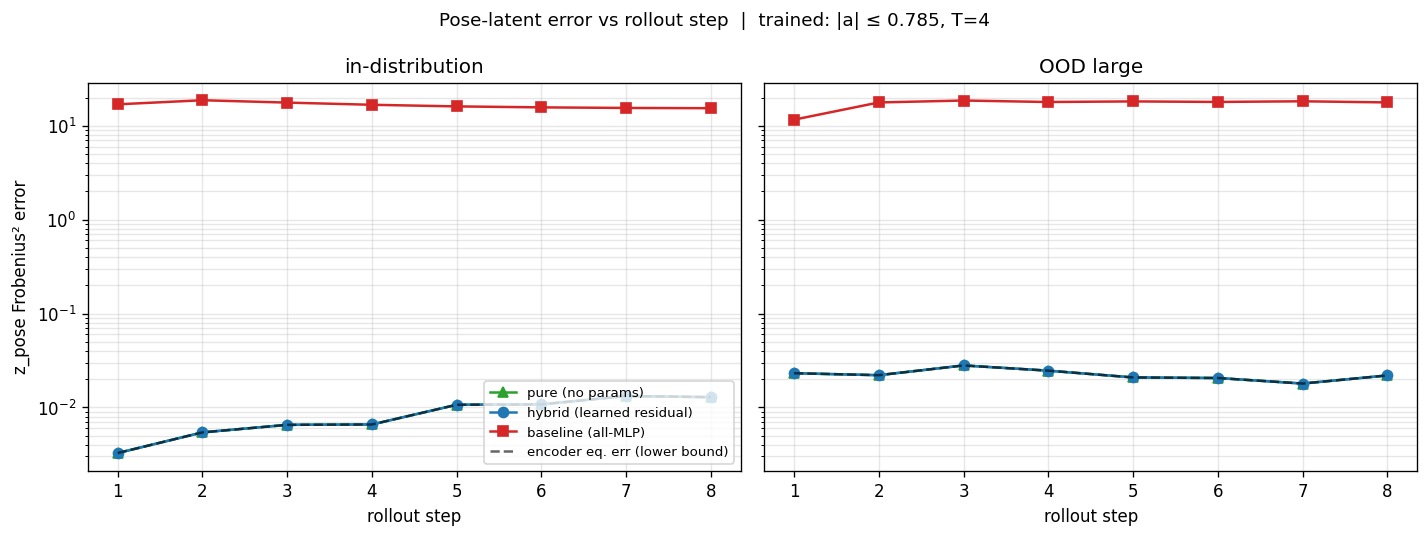
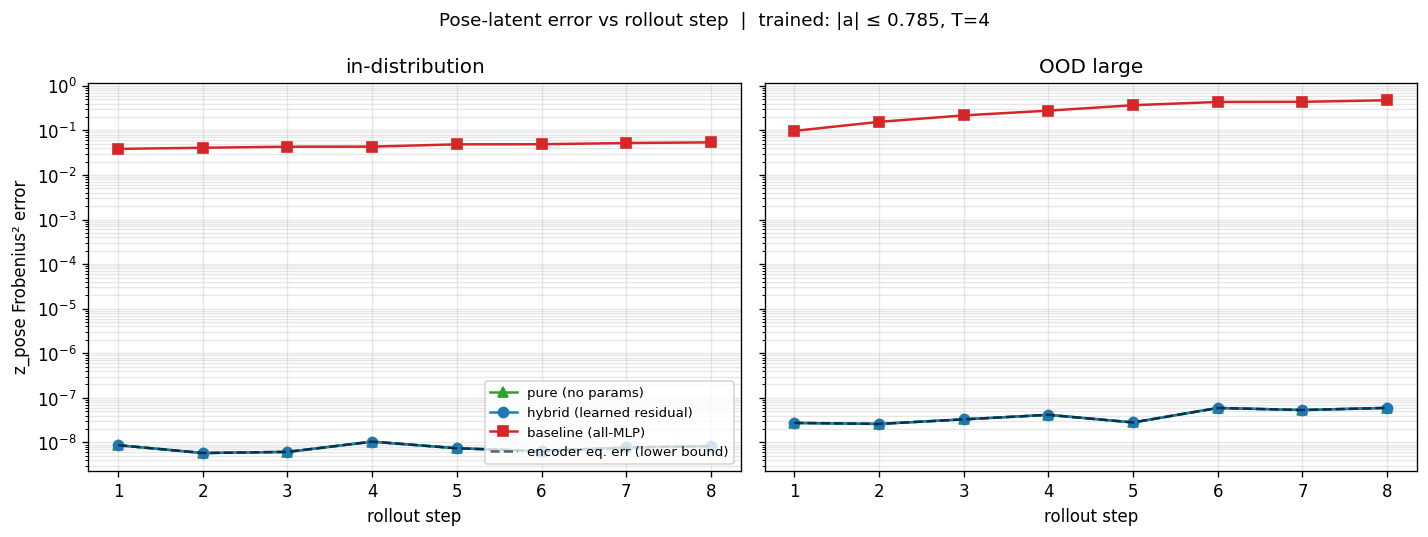
Geometric-learning card: tighten copy, swap to new pose-error thumbnail
Hard-equivariant rewrite gives machine-epsilon equivariance (10^-8) and
the new pose-error plot shows a six-orders-of-magnitude gap between the
architectural prior and the learned baseline. Card description tightened
to the high-level claim and the headline numbers.

diff --git a/_pages/about.md b/_pages/about.md
@@ -59,10 +59,10 @@ Previously, I studied Mechanical Engineering at McGill University and interned a
   </div>
 
   <div class="project-card">
-    <img src="/images/geometric-learning.png" alt="Closed-form group-action latent dynamics — pose-latent error vs rollout step on in-distribution and OOD rotations" />
+    <img src="/images/geometric-learning.png" alt="Closed-form group-action latent dynamics: pose-latent error vs rollout step, six orders of magnitude gap between architectural prior and learned baseline" />
     <div class="project-content">
-      <h3><strong>Closed-Form Group-Action Latent Dynamics for OOD Rotation Extrapolation</strong></h3>
-      <p>Built a SO(3)-structured latent autoencoder for 3D point clouds (Perceiver-style, ModelNet10), then trained two latent dynamics models on top: a <em>baseline</em> all-MLP that predicts latent deltas, and a <em>hybrid</em> that updates the pose latent via the exact group action <code>R(a) · z_pose</code> with no learned parameters for the rigid part. Trained on small-magnitude rotations <code>|a| ∈ [0, π/4]</code>, evaluated on out-of-distribution magnitudes <code>|a| ∈ [π/2, π]</code> never seen at training. Result: closed-form group action sits exactly on the encoder's equivariance noise floor at every rollout step in both regimes (~3×10⁻³ in-dist, ~2×10⁻² OOD), while the all-MLP baseline is 1000× worse in latent space. Decoded Chamfer hides this entirely due to decoder mean-shape collapse — a methodological warning about evaluating latent world model dynamics through reconstruction quality alone. 2.25M-param autoencoder + tiny dynamics heads, end-to-end on a Jetson Orin in ~20 min total.</p>
+      <h3><strong>Hard-Equivariant Latent Dynamics for 3D World Models</strong></h3>
+      <p>Built a hard SO(3)-equivariant 3D point cloud world model — Vector Neurons encoder + FoldingNet decoder + closed-form group-action latent dynamics — to test whether architectural geometric priors give provable extrapolation to unseen rotations. The result: latent pose error of <strong>10⁻⁸</strong> across every rollout step in both in-distribution and OOD rotation regimes (essentially machine-epsilon — equivariance is an architectural identity, not a soft loss), versus <strong>10⁻²</strong> for a learned-MLP baseline of comparable capacity, and a <strong>140×</strong> gap in decoded reconstruction error at large OOD rotations. End-to-end on a Jetson Orin in under 30 minutes.</p>
       <p>
         <a href="https://github.com/luaiabuelsamen/geometric-learning">🔗 Code</a>
       </p>
